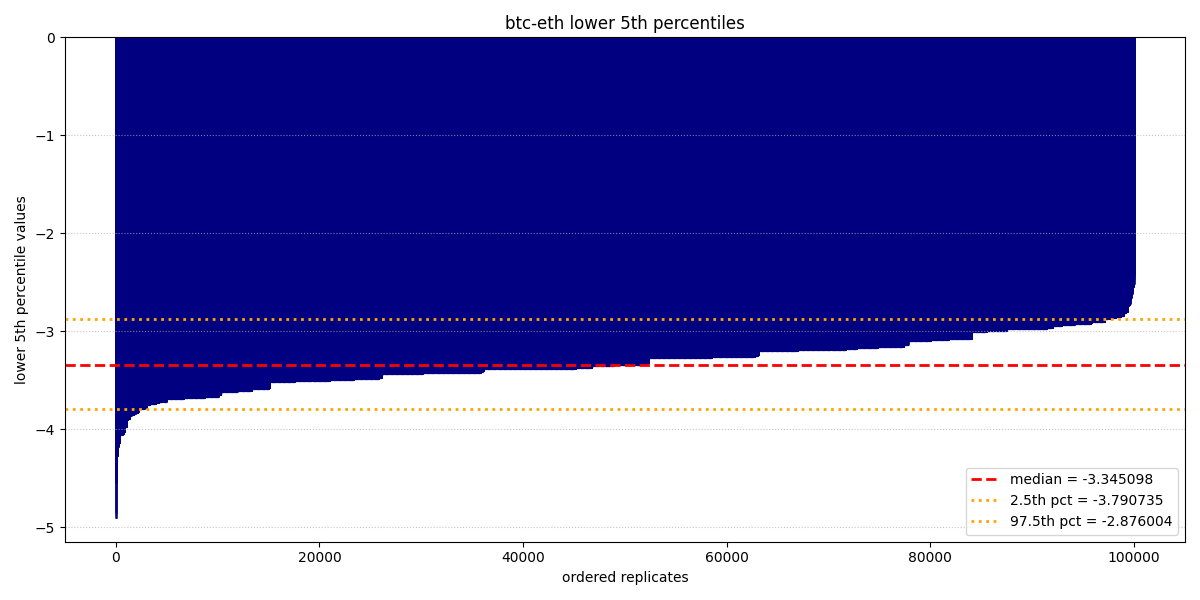
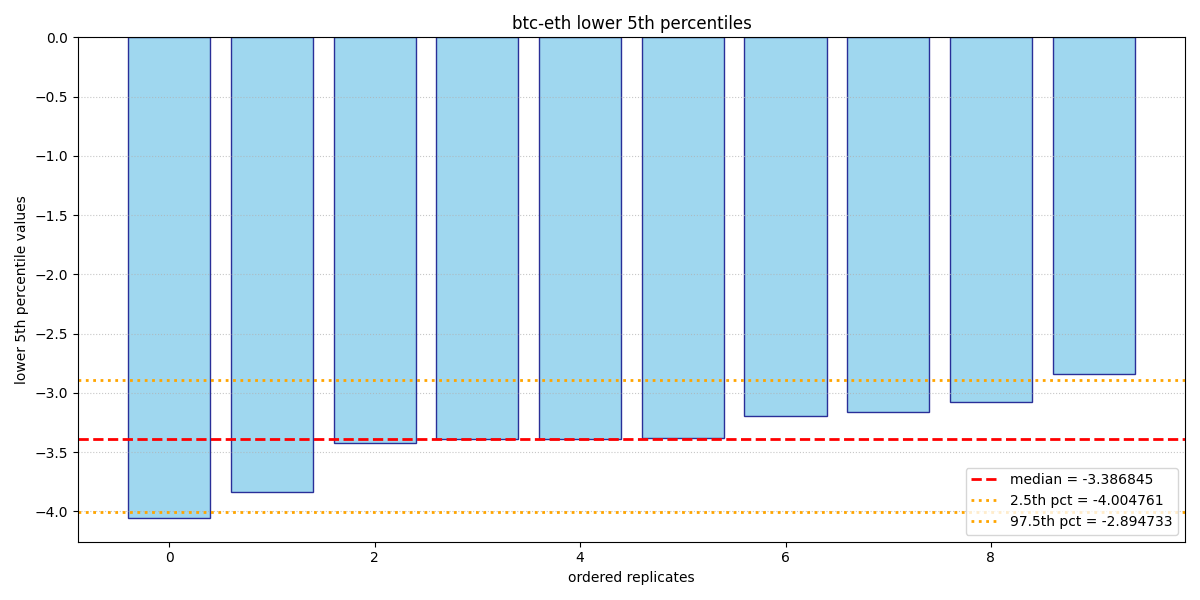
save

diff --git a/src/priceData.py b/src/priceData.py
@@ -8,20 +8,31 @@ from datetime import datetime, timedelta, timezone
 
 
 def download_new_file(fileName: str, cryptoSymbol: str) -> bool:
-    existingDF = _load(fileName, ['date',f'{cryptoSymbol.lower()}_closing_price_usd'])
+    existingDF = _load(fileName, ['date', f'{cryptoSymbol.lower()}_closing_price_usd'])
 
     if existingDF.empty:
         print('no existing data.. downloading new data..')
         return True
 
-    latest = existingDF.iloc[-1]['date']
-    latestDate = datetime.fromisoformat(latest).date()
-    print(f'latest entry(utc): {latestDate}')
+    latest_str = existingDF.iloc[-1]['date']
+    latest_date = datetime.strptime(latest_str, '%Y-%m-%d').date()
+    print(f'latest entry date: {latest_date}')
 
-    currentUTC = datetime.now(timezone.utc).date()
-    print(f'current utc: {currentUTC}')
+    now_utc = datetime.now(timezone.utc)
+    current_date_utc = now_utc.date()
+    print(f'current utc date: {current_date_utc}')
+    print(f'current utc time: {now_utc.strftime("%H:%M:%S")} UTC')
 
-    if latestDate < currentUTC:
+    target_hour_utc = 13  # corresponds to 22:00 KST
+
+    if now_utc.hour >= target_hour_utc:
+        expected_latest_date = current_date_utc
+    else:
+        expected_latest_date = current_date_utc - timedelta(days=1)
+
+    print(f'expected latest date (≥ {target_hour_utc}:00 UTC): {expected_latest_date}')
+
+    if latest_date < expected_latest_date:
         print('data is behind.. downloading new data..')
         return True
     else:

diff --git a/src/getStats.py b/src/getStats.py
@@ -30,7 +30,7 @@ def get_stats(asset1: str, asset2: str) -> None:
 
     draw_graph(asset1, asset2)
 
-    generate_replicates(asset1, asset2, 100000)
+    generate_replicates(asset1, asset2, 10)
 
     sort_reps(asset1, asset2)
 

diff --git a/src/additional/getUniRate.py b/src/additional/getUniRate.py
@@ -1,5 +1,3 @@
-#getUnitRate.py
-
 import math
 from web3 import Web3
 
